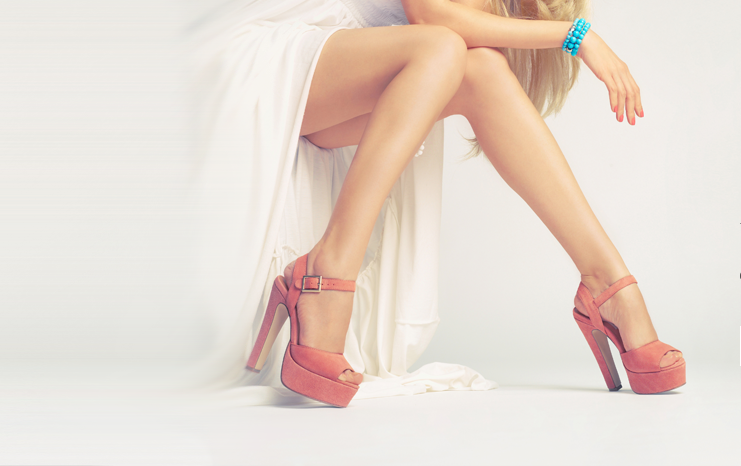
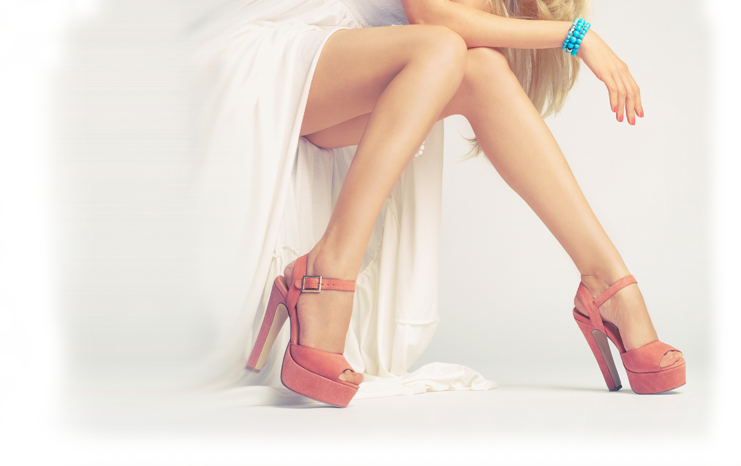
top-pane-slider-img

diff --git a/index.html b/index.html
@@ -53,12 +53,12 @@
     </div>
     <div class="top-pane">
         <div class="top-pane-slider-list">
-            <div class="top-pane-slider-item">
+            <div class="top-pane-slider-item" style="background: #EFECE7">
                 <div class="row">
-                    <div class="col-xs-12 col-md-6">
+                    <div class="top-pane-slider-img col-xs-12 col-md-6">
                         <img src="img/girl.png" alt="">
                     </div>
-                    <div class="col-xs-12 col-md-6">
+                    <div class="top-pane-slider-text col-xs-12 col-md-6">
                         <div class="top-pane-slider-price">
                             $145,99
                         </div>

diff --git a/css/main.css b/css/main.css
@@ -1,6 +1,5 @@
 body {
     height: 2342px;
-    background: #ebe7df;
     font-family: sans-serif;
 }
 body:after {
@@ -84,7 +83,7 @@ ul {
 .top-menu-nav a {
     display: inline-block;
     line-height: 22px;
-    padding: 20px 22% 18px;
+    padding: 20px 22px 18px;
     color: #202020;
     border-left: 1px solid #F2F2F2;
 }
@@ -147,4 +146,17 @@ ul {
 }
 .top-menu-card span {
     background: #57C5A0;
+}
+.top-pane-slider-img {
+    min-height: 466px;
+    position: relative;
+}
+.top-pane-slider-img img {
+    position: absolute;
+    top: 0;
+    right: -40px;
+}
+.top-pane-slider-text {
+    position: relative;
+    z-index: 1;
 }
